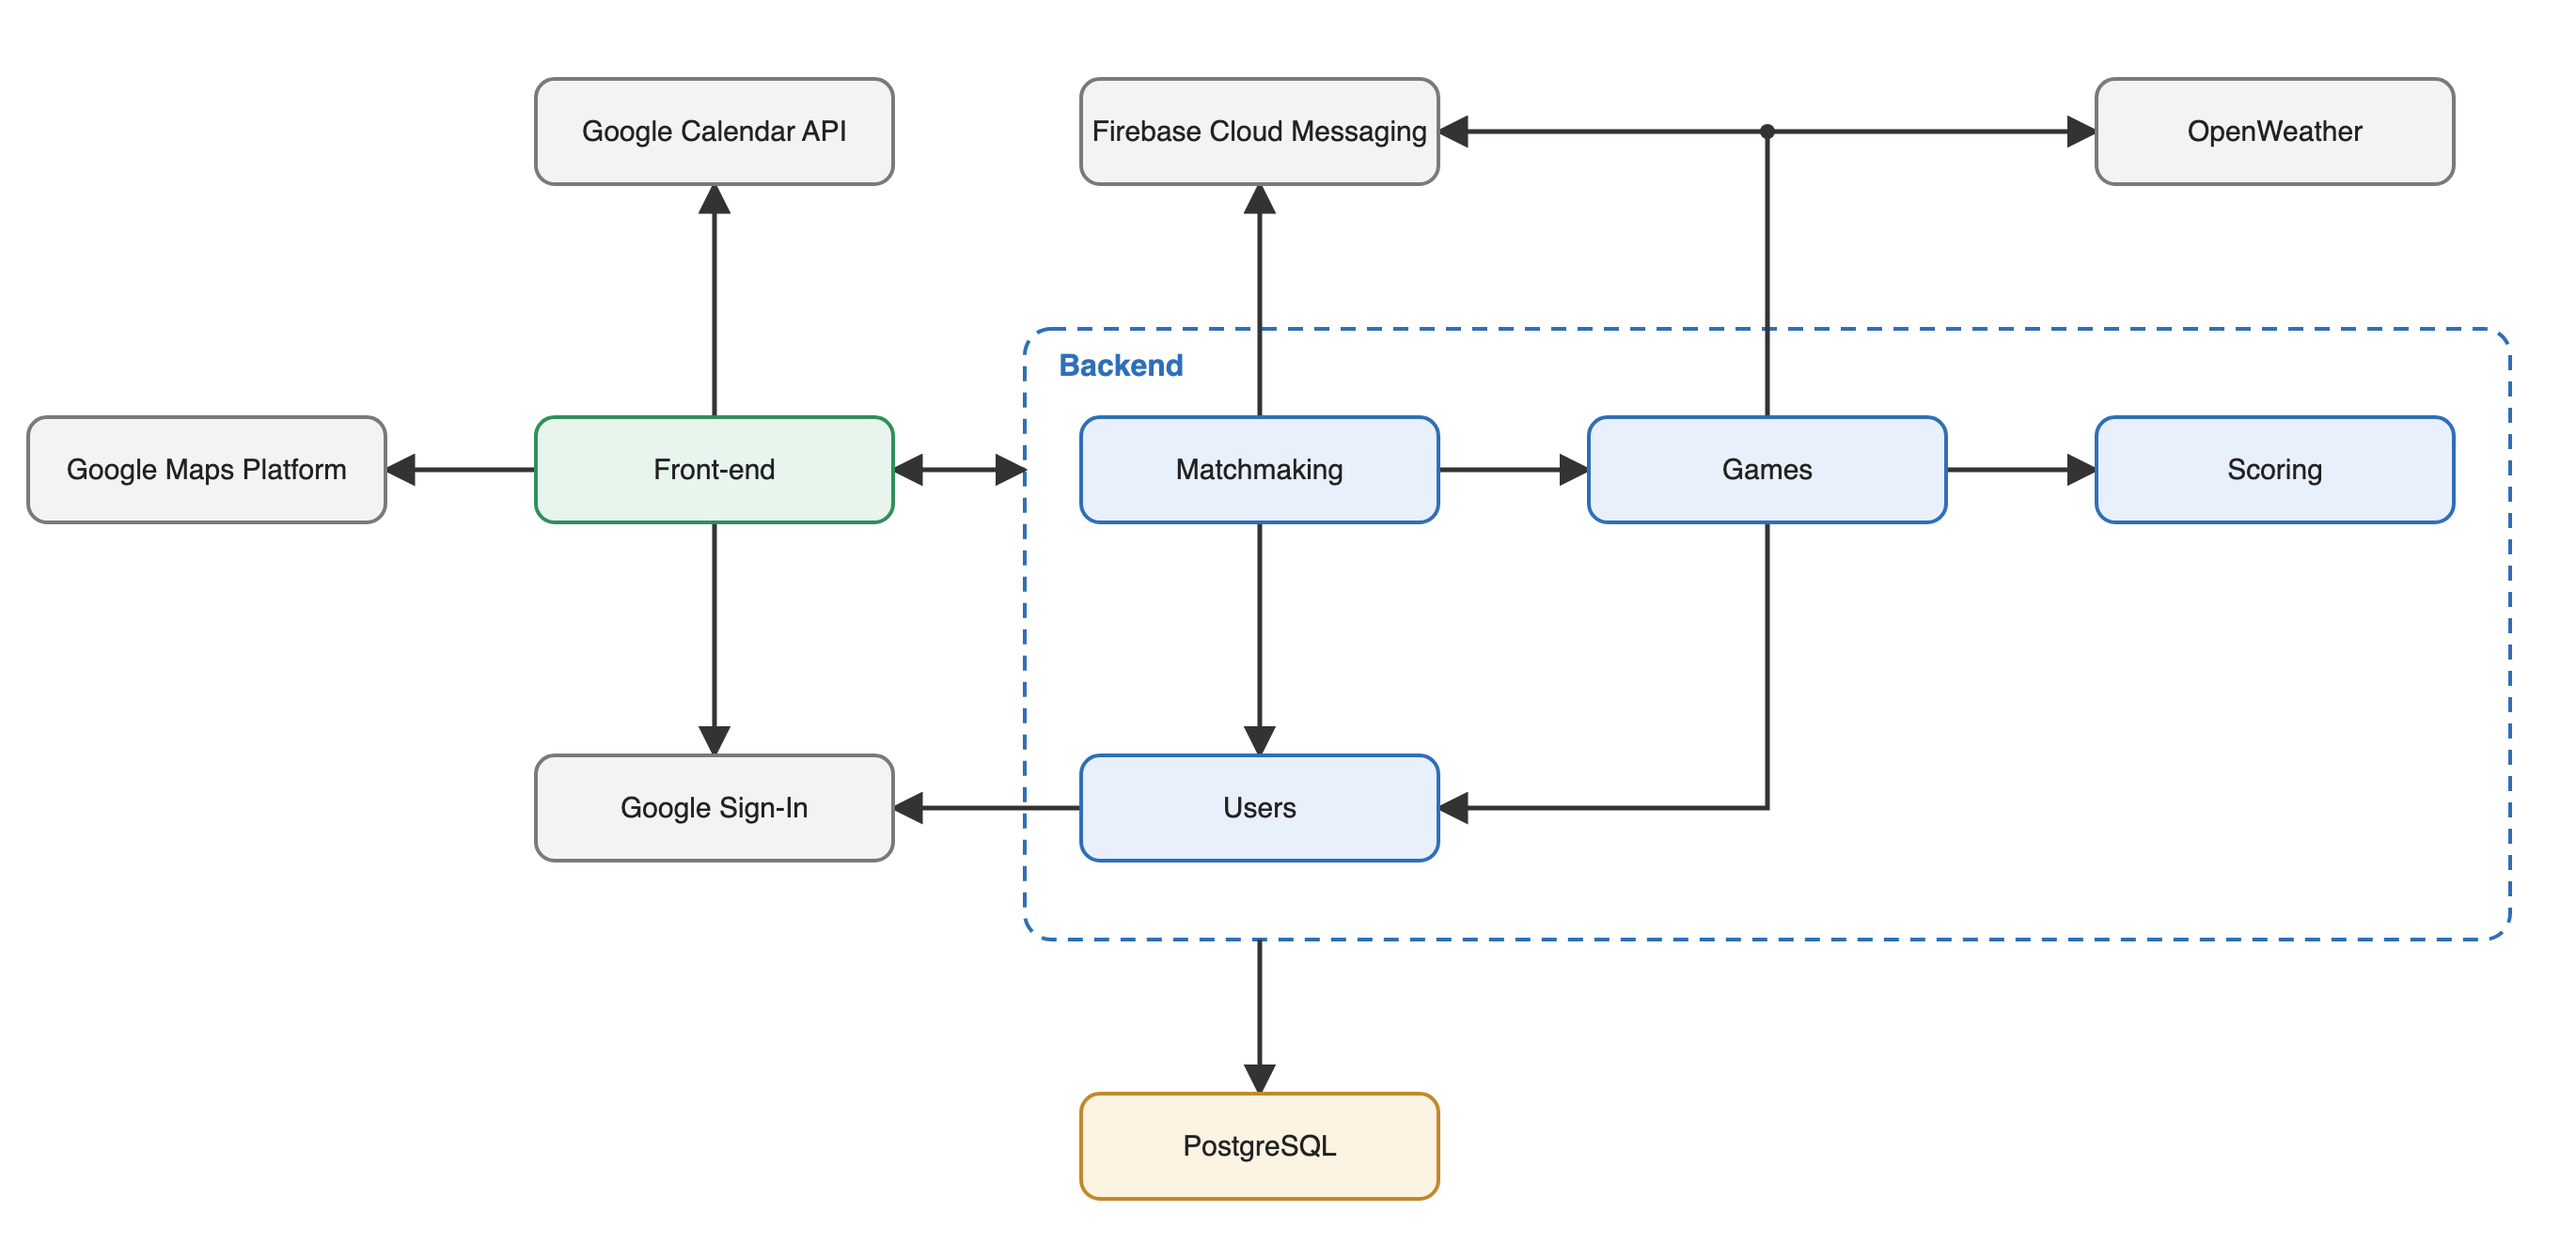
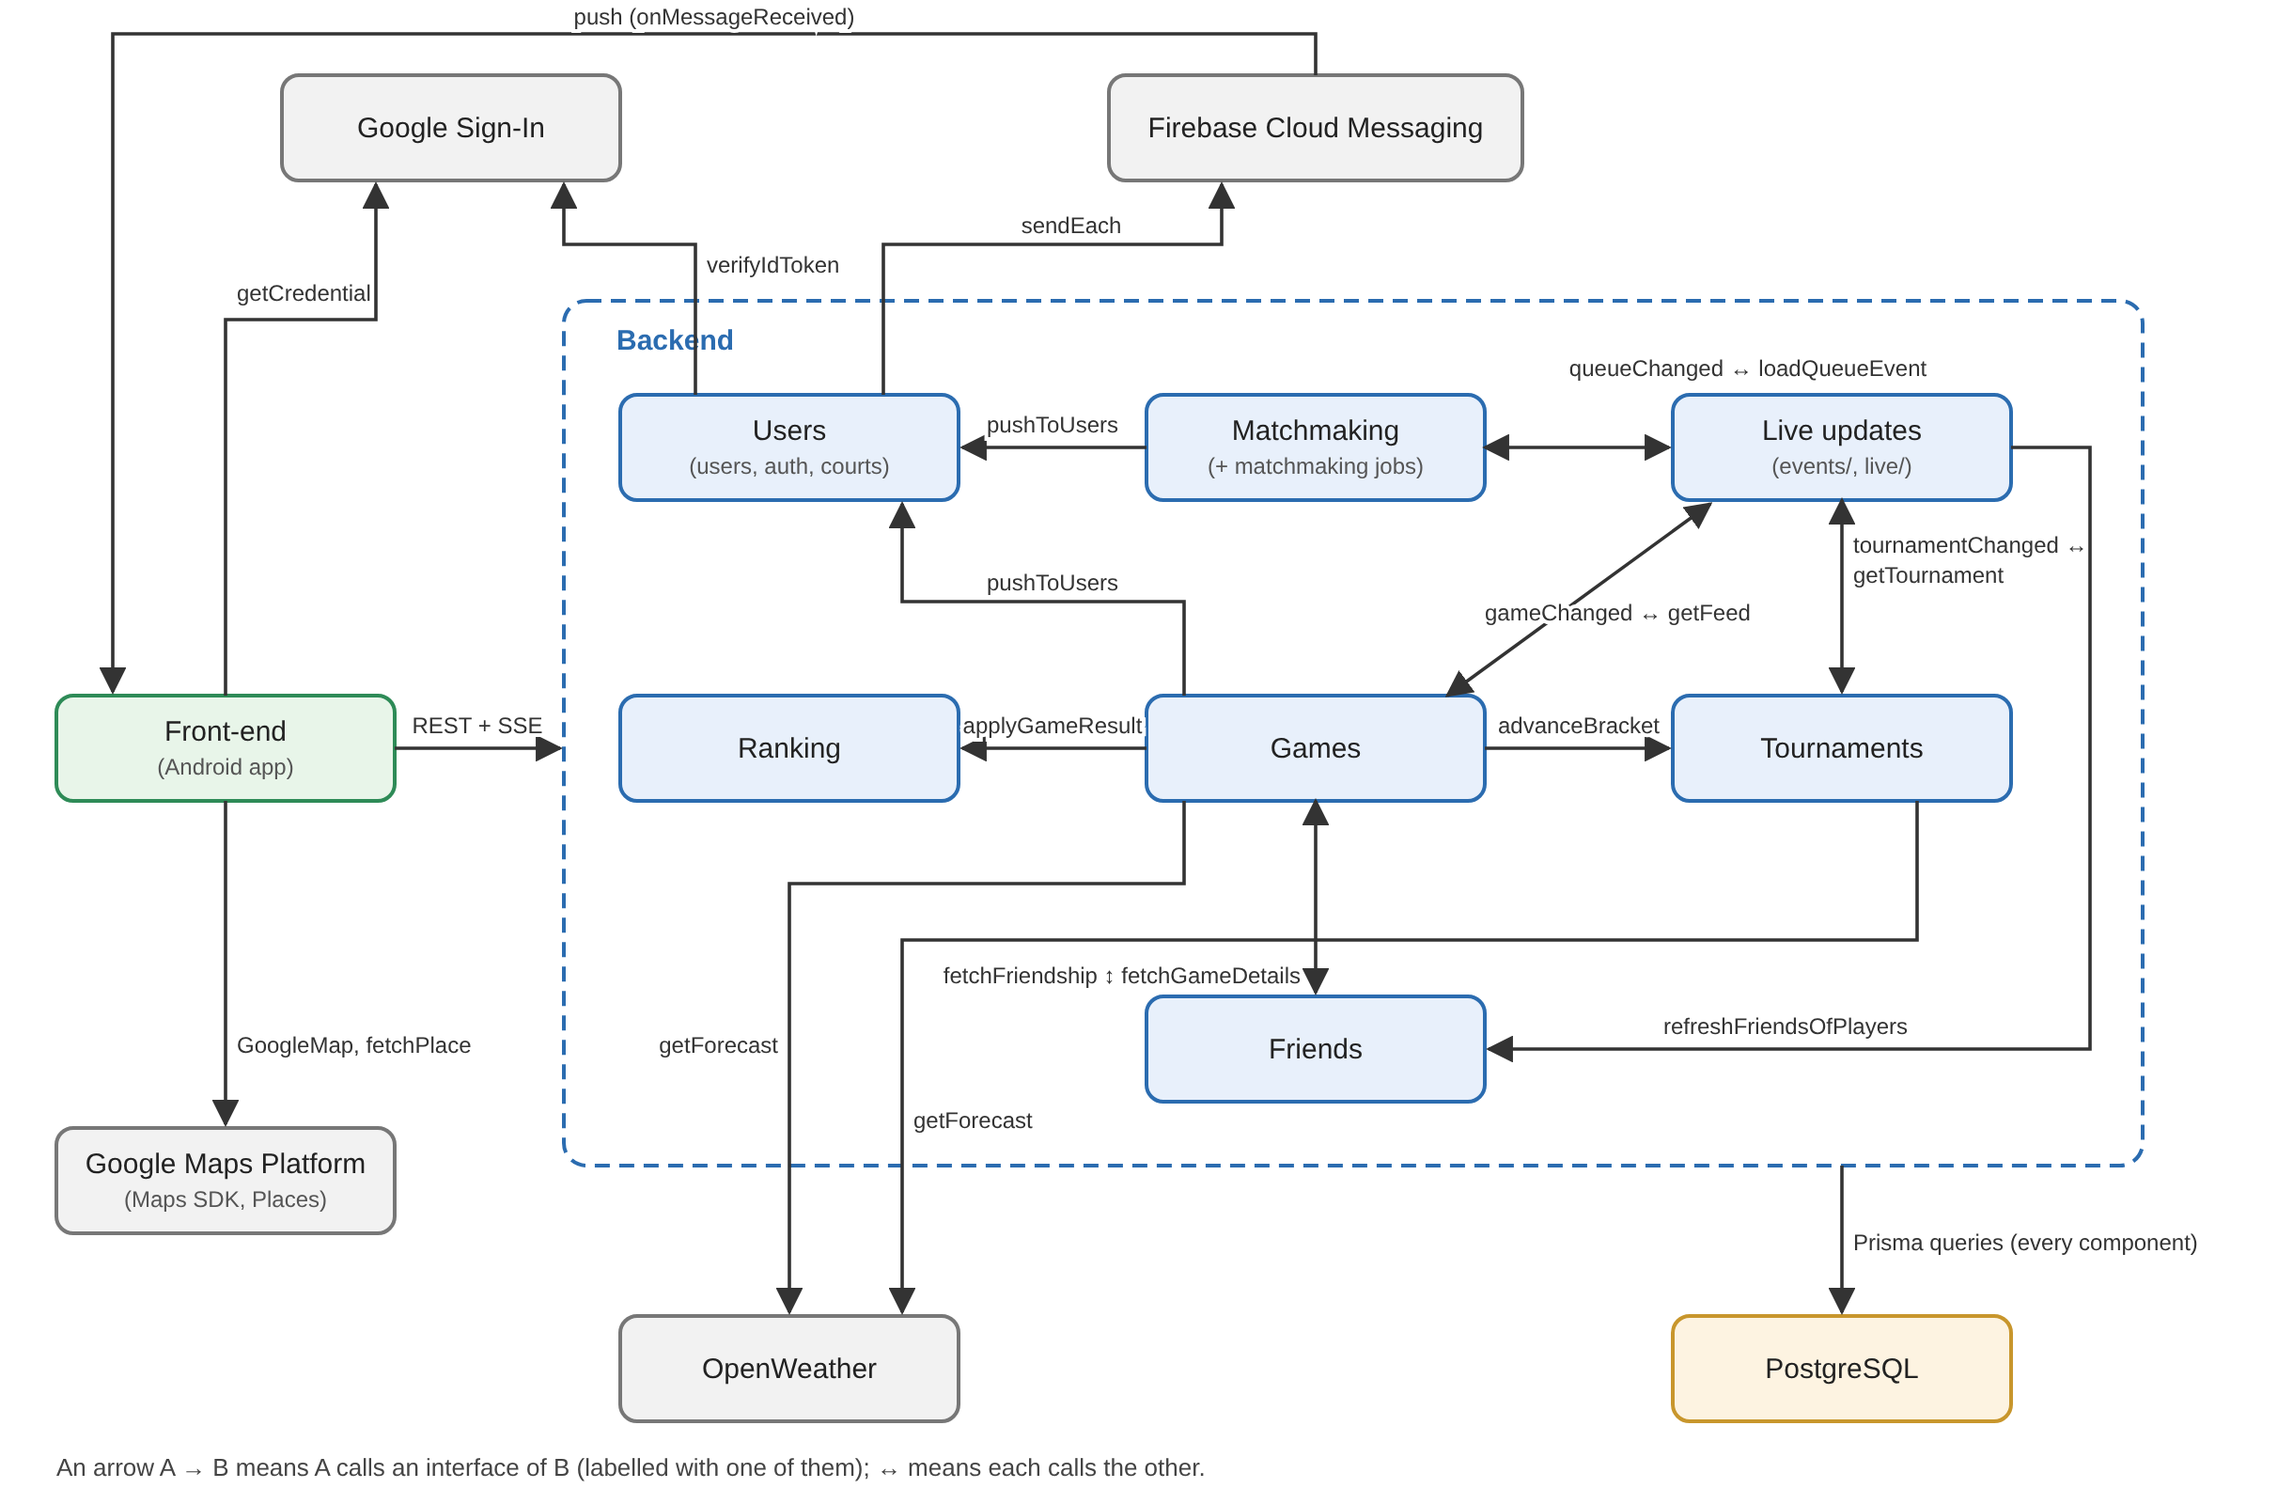
docs: redraw dependencies diagram to match the backend components and their calls
Adds Tournaments, Friends and the live-updates module, renames Scoring to
Ranking, labels each arrow with a real interface, and drops the Google
Calendar box (the app never calls the Calendar API). Commits the SVG
source and a README on re-rendering.

diff --git a/documentation/diagrams/README.md b/documentation/diagrams/README.md
@@ -1,0 +1,3 @@
+Sources for the PNGs in `../images/` (same base name): `.mmd` files are Mermaid, render with `npx -p @mermaid-js/mermaid-cli mmdc -i X.mmd -o ../images/X.png -s 2 -b white`.
+`.svg` files are hand-placed diagrams; render at 2x with any headless Chrome, e.g. `chrome --headless --screenshot=../images/X.png --force-device-scale-factor=2 --window-size=<svg width>,<svg height> X.svg`.
+Edit the source, re-render, and commit both; the PNG is what Requirements_and_Design.md shows.
